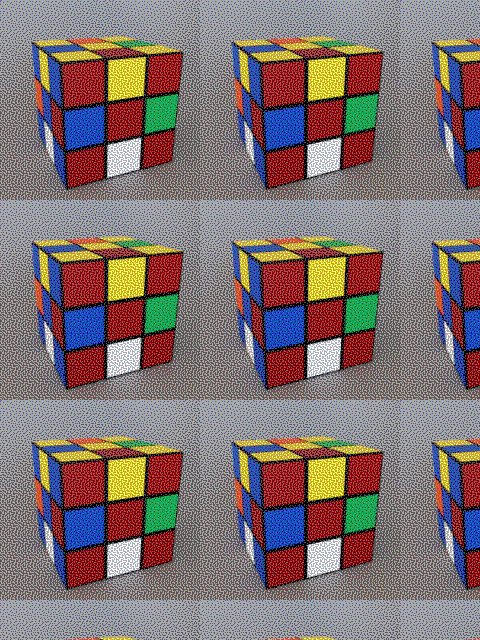
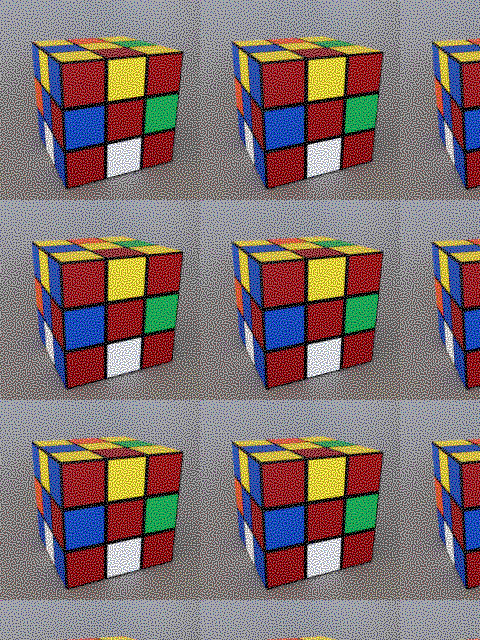
Switch to 64x64 blue noise texture

diff --git a/src/image/Dither.cpp b/src/image/Dither.cpp
@@ -46,7 +46,7 @@ uint8_t Dither::BayerDither(const uint8_t value, const int x, const int y, const
 
 uint8_t Dither::BlueNoiseDither(const uint8_t value, const int x, const int y, const int factor, const int fromMax, const int toMax) {
 	//float threshold = (float)Dither::BayerThreshold[(x % 16) + (y % 16) * 16] / 256.f;
-	float threshold = (float)Dither::BlueNoiseThreshold.GetData((size_t)((x % 16) + (y % 16) * 16)) / 256.f;
+	float threshold = (float)Dither::BlueNoiseThreshold.GetData((size_t)((x % 64) + (y % 64) * 64)) / 256.f;
 	float octet = 1.f / (float)factor;
 
 	float v = (float)value / (float)fromMax;
